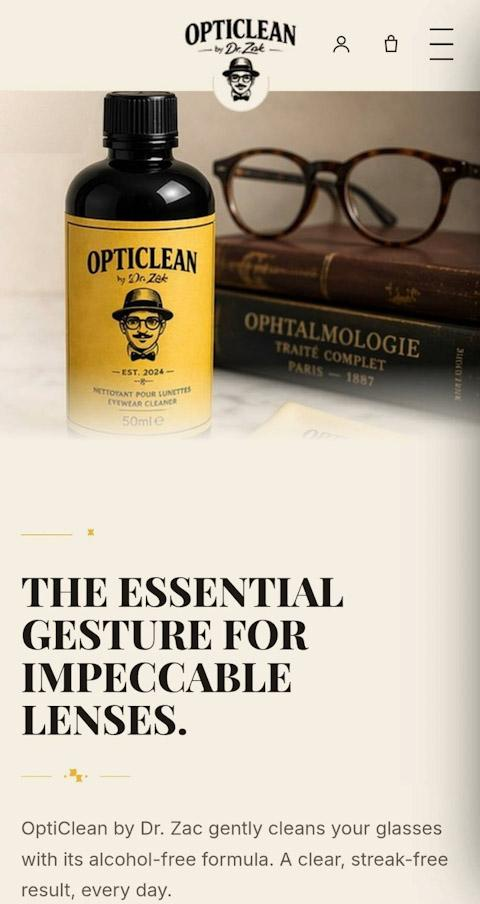
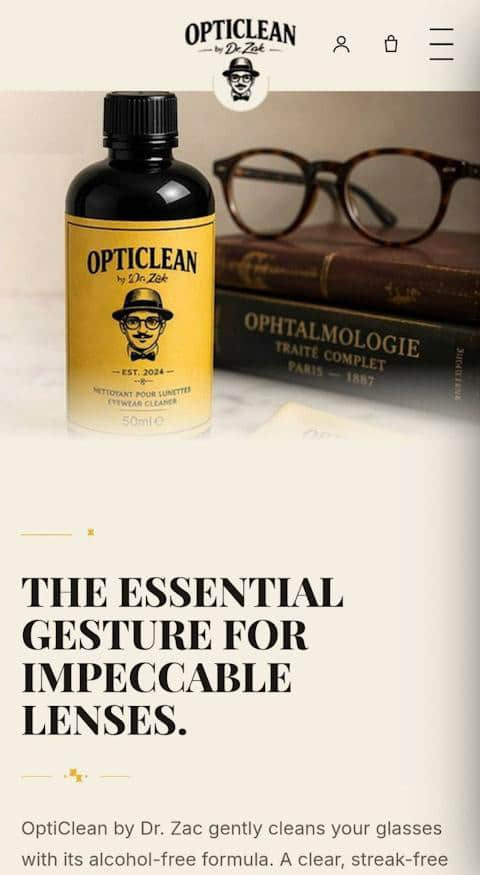
v6.2: picture/media for deterministic mobile files (DPR-proof), CLS space reservation, ship pending optimized image, restore zac.jpg

diff --git a/index.html b/index.html
@@ -688,6 +688,16 @@ html[lang="th"] .mm-links a{font-size:clamp(1.7rem,6.5vh,2.4rem);line-height:1.6
 .lang-sw a.on{background:var(--ink);color:#fff}
 .lang-sw a:not(.on):hover{color:var(--ink)}
 @media(max-width:820px){.lang-sw a{padding:.4rem .6rem;font-size:.66rem}}
+
+/* v6.2 — hero image space reservation (CLS) */
+.fl-mio .ph.has-img{aspect-ratio:735/920!important}
+.fl-oc .ph.has-img{aspect-ratio:1343/632!important}
+@media(max-width:768px){
+  .fl-mio .ph.has-img{aspect-ratio:480/808!important}
+  .fl-oc .ph.has-img{aspect-ratio:600/1132!important}
+}
+.fl .ph.has-img img,.fl .ph.has-img picture{width:100%;height:100%;display:block}
+.fl .ph.has-img img{object-fit:cover}
 </style>
 </head>
 <body>
@@ -720,12 +730,12 @@ html[lang="th"] .mm-links a{font-size:clamp(1.7rem,6.5vh,2.4rem);line-height:1.6
     <div class="collage" aria-hidden="true">
       <div class="fl fl-mio">
         <div class="ph has-img" id="heroMioSlot">
-          <img src="/assets/img/miomika-hero-desktop.jpg" srcset="/assets/img/miomika-hero-mobile.jpg 480w, /assets/img/miomika-hero-desktop.jpg 1000w" sizes="(max-width:768px) 85vw, 30vw" alt="Miomika — live app" loading="eager" fetchpriority="high" decoding="async">
+          <picture><source media="(max-width:768px)" srcset="/assets/img/miomika-hero-mobile.jpg"><img src="/assets/img/miomika-hero-desktop.jpg" alt="Miomika — live app" loading="eager" fetchpriority="high" decoding="async"></picture>
         </div>
         <div class="cap">Miomika — AI companion · live</div>
       </div>
       <div class="fl fl-oc">
-        <div class="ph has-img" id="heroOcSlot"><img src="/assets/img/opticlean-hero-desktop.jpg" srcset="/assets/img/opticlean-hero-desktop-mobile.jpg 600w, /assets/img/opticlean-hero-desktop.jpg 1343w" sizes="(max-width:768px) 85vw, 28vw" alt="OptiClean — live store" loading="eager" fetchpriority="high" decoding="async"></div>
+        <div class="ph has-img" id="heroOcSlot"><picture><source media="(max-width:768px)" srcset="/assets/img/opticlean-hero-desktop-mobile.jpg"><img src="/assets/img/opticlean-hero-desktop.jpg" alt="OptiClean — live store" loading="eager" fetchpriority="high" decoding="async"></picture></div>
         <div class="cap">OptiClean — live store</div>
       </div>
       <span class="fl fl-chat">สวัสดีค่ะ — say it with me</span>
@@ -762,7 +772,7 @@ html[lang="th"] .mm-links a{font-size:clamp(1.7rem,6.5vh,2.4rem);line-height:1.6
       <div class="vis mio-vis zoomin" id="mioVisWrap">
         <div class="bframe">
           <div class="bbar2"><i></i><i></i><i></i><span class="url">miomika.com</span></div>
-          <div class="shot imgslot has-img" id="mioMainSlot"><img src="/assets/img/miomika-case-desktop.jpg" srcset="/assets/img/miomika-case-desktop-mobile.jpg 480w, /assets/img/miomika-case-desktop.jpg 1000w" sizes="(max-width:768px) 90vw, 42vw" alt="Miomika app" loading="lazy" decoding="async"></div>
+          <div class="shot imgslot has-img" id="mioMainSlot"><picture><source media="(max-width:768px)" srcset="/assets/img/miomika-case-desktop-mobile.jpg"><img src="/assets/img/miomika-case-desktop.jpg" alt="Miomika app" loading="lazy" decoding="async"></picture></div>
         </div>
         <span class="bub b1" id="mb1">Say “hello” in Thai?</span>
         <span class="bub b2" id="mb2">สวัสดีค่ะ — your turn!</span>
@@ -774,7 +784,7 @@ html[lang="th"] .mm-links a{font-size:clamp(1.7rem,6.5vh,2.4rem);line-height:1.6
       <div class="vis zoomin">
         <div class="bframe">
           <div class="bbar2"><i></i><i></i><i></i><span class="url">opticlean.mikaro.studio</span></div>
-          <div class="shot imgslot has-img" id="ocMainSlot"><img src="/assets/img/opticlean-case-desktop.jpg" srcset="/assets/img/opticlean-case-desktop-mobile.jpg 600w, /assets/img/opticlean-case-desktop.jpg 1343w" sizes="(max-width:768px) 90vw, 42vw" alt="OptiClean storefront" loading="lazy" decoding="async"></div>
+          <div class="shot imgslot has-img" id="ocMainSlot"><picture><source media="(max-width:768px)" srcset="/assets/img/opticlean-case-desktop-mobile.jpg"><img src="/assets/img/opticlean-case-desktop.jpg" alt="OptiClean storefront" loading="lazy" decoding="async"></picture></div>
         </div>
         <span class="seal">TEST CARD<br>4242 4242</span>
       </div>

diff --git a/th/index.html b/th/index.html
@@ -688,6 +688,16 @@ html[lang="th"] .mm-links a{font-size:clamp(1.7rem,6.5vh,2.4rem);line-height:1.6
 .lang-sw a.on{background:var(--ink);color:#fff}
 .lang-sw a:not(.on):hover{color:var(--ink)}
 @media(max-width:820px){.lang-sw a{padding:.4rem .6rem;font-size:.66rem}}
+
+/* v6.2 — hero image space reservation (CLS) */
+.fl-mio .ph.has-img{aspect-ratio:735/920!important}
+.fl-oc .ph.has-img{aspect-ratio:1343/632!important}
+@media(max-width:768px){
+  .fl-mio .ph.has-img{aspect-ratio:480/808!important}
+  .fl-oc .ph.has-img{aspect-ratio:600/1132!important}
+}
+.fl .ph.has-img img,.fl .ph.has-img picture{width:100%;height:100%;display:block}
+.fl .ph.has-img img{object-fit:cover}
 </style>
 </head>
 <body>
@@ -720,12 +730,12 @@ html[lang="th"] .mm-links a{font-size:clamp(1.7rem,6.5vh,2.4rem);line-height:1.6
     <div class="collage" aria-hidden="true">
       <div class="fl fl-mio">
         <div class="ph has-img" id="heroMioSlot">
-          <img src="/assets/img/miomika-hero-desktop.jpg" srcset="/assets/img/miomika-hero-mobile.jpg 480w, /assets/img/miomika-hero-desktop.jpg 1000w" sizes="(max-width:768px) 85vw, 30vw" alt="Miomika — live app" loading="eager" fetchpriority="high" decoding="async">
+          <picture><source media="(max-width:768px)" srcset="/assets/img/miomika-hero-mobile.jpg"><img src="/assets/img/miomika-hero-desktop.jpg" alt="Miomika — live app" loading="eager" fetchpriority="high" decoding="async"></picture>
         </div>
         <div class="cap">Miomika — เพื่อน AI · ออนไลน์</div>
       </div>
       <div class="fl fl-oc">
-        <div class="ph has-img" id="heroOcSlot"><img src="/assets/img/opticlean-hero-desktop.jpg" srcset="/assets/img/opticlean-hero-desktop-mobile.jpg 600w, /assets/img/opticlean-hero-desktop.jpg 1343w" sizes="(max-width:768px) 85vw, 28vw" alt="OptiClean — live store" loading="eager" fetchpriority="high" decoding="async"></div>
+        <div class="ph has-img" id="heroOcSlot"><picture><source media="(max-width:768px)" srcset="/assets/img/opticlean-hero-desktop-mobile.jpg"><img src="/assets/img/opticlean-hero-desktop.jpg" alt="OptiClean — live store" loading="eager" fetchpriority="high" decoding="async"></picture></div>
         <div class="cap">OptiClean — ร้านค้าออนไลน์จริง</div>
       </div>
       <span class="fl fl-chat">สวัสดีค่ะ — พูดตามกันเลย</span>
@@ -762,7 +772,7 @@ html[lang="th"] .mm-links a{font-size:clamp(1.7rem,6.5vh,2.4rem);line-height:1.6
       <div class="vis mio-vis zoomin" id="mioVisWrap">
         <div class="bframe">
           <div class="bbar2"><i></i><i></i><i></i><span class="url">miomika.com</span></div>
-          <div class="shot imgslot has-img" id="mioMainSlot"><img src="/assets/img/miomika-case-desktop.jpg" srcset="/assets/img/miomika-case-desktop-mobile.jpg 480w, /assets/img/miomika-case-desktop.jpg 1000w" sizes="(max-width:768px) 90vw, 42vw" alt="Miomika app" loading="lazy" decoding="async"></div>
+          <div class="shot imgslot has-img" id="mioMainSlot"><picture><source media="(max-width:768px)" srcset="/assets/img/miomika-case-desktop-mobile.jpg"><img src="/assets/img/miomika-case-desktop.jpg" alt="Miomika app" loading="lazy" decoding="async"></picture></div>
         </div>
         <span class="bub b1" id="mb1">ลองพูด “สวัสดี” ไหม?</span>
         <span class="bub b2" id="mb2">สวัสดีค่ะ — ตาคุณแล้ว!</span>
@@ -774,7 +784,7 @@ html[lang="th"] .mm-links a{font-size:clamp(1.7rem,6.5vh,2.4rem);line-height:1.6
       <div class="vis zoomin">
         <div class="bframe">
           <div class="bbar2"><i></i><i></i><i></i><span class="url">opticlean.mikaro.studio</span></div>
-          <div class="shot imgslot has-img" id="ocMainSlot"><img src="/assets/img/opticlean-case-desktop.jpg" srcset="/assets/img/opticlean-case-desktop-mobile.jpg 600w, /assets/img/opticlean-case-desktop.jpg 1343w" sizes="(max-width:768px) 90vw, 42vw" alt="OptiClean storefront" loading="lazy" decoding="async"></div>
+          <div class="shot imgslot has-img" id="ocMainSlot"><picture><source media="(max-width:768px)" srcset="/assets/img/opticlean-case-desktop-mobile.jpg"><img src="/assets/img/opticlean-case-desktop.jpg" alt="OptiClean storefront" loading="lazy" decoding="async"></picture></div>
         </div>
         <span class="seal">TEST CARD<br>4242 4242</span>
       </div>

diff --git a/css/main.css b/css/main.css
@@ -658,3 +658,13 @@ html[lang="th"] .mm-links a{font-size:clamp(1.7rem,6.5vh,2.4rem);line-height:1.6
 .lang-sw a.on{background:var(--ink);color:#fff}
 .lang-sw a:not(.on):hover{color:var(--ink)}
 @media(max-width:820px){.lang-sw a{padding:.4rem .6rem;font-size:.66rem}}
+
+/* v6.2 — hero image space reservation (CLS) */
+.fl-mio .ph.has-img{aspect-ratio:735/920!important}
+.fl-oc .ph.has-img{aspect-ratio:1343/632!important}
+@media(max-width:768px){
+  .fl-mio .ph.has-img{aspect-ratio:480/808!important}
+  .fl-oc .ph.has-img{aspect-ratio:600/1132!important}
+}
+.fl .ph.has-img img,.fl .ph.has-img picture{width:100%;height:100%;display:block}
+.fl .ph.has-img img{object-fit:cover}

diff --git a/th/work.html b/th/work.html
@@ -67,7 +67,7 @@
       <div class="vis mio-vis zoomin" id="mioVisWrap">
         <div class="bframe">
           <div class="bbar2"><i></i><i></i><i></i><span class="url">miomika.com</span></div>
-          <div class="shot imgslot has-img" id="mioMainSlot"><img src="/assets/img/miomika-case-desktop.jpg" srcset="/assets/img/miomika-case-desktop-mobile.jpg 480w, /assets/img/miomika-case-desktop.jpg 1000w" sizes="(max-width:768px) 90vw, 42vw" alt="Miomika app" loading="lazy" decoding="async"></div>
+          <div class="shot imgslot has-img" id="mioMainSlot"><picture><source media="(max-width:768px)" srcset="/assets/img/miomika-case-desktop-mobile.jpg"><img src="/assets/img/miomika-case-desktop.jpg" alt="Miomika app" loading="lazy" decoding="async"></picture></div>
         </div>
         <span class="bub b1" id="mb1">ลองพูด “สวัสดี” ไหม?</span>
         <span class="bub b2" id="mb2">สวัสดีค่ะ — ตาคุณแล้ว!</span>
@@ -79,7 +79,7 @@
       <div class="vis zoomin">
         <div class="bframe">
           <div class="bbar2"><i></i><i></i><i></i><span class="url">opticlean.mikaro.studio</span></div>
-          <div class="shot imgslot has-img" id="ocMainSlot"><img src="/assets/img/opticlean-case-desktop.jpg" srcset="/assets/img/opticlean-case-desktop-mobile.jpg 600w, /assets/img/opticlean-case-desktop.jpg 1343w" sizes="(max-width:768px) 90vw, 42vw" alt="OptiClean storefront" loading="lazy" decoding="async"></div>
+          <div class="shot imgslot has-img" id="ocMainSlot"><picture><source media="(max-width:768px)" srcset="/assets/img/opticlean-case-desktop-mobile.jpg"><img src="/assets/img/opticlean-case-desktop.jpg" alt="OptiClean storefront" loading="lazy" decoding="async"></picture></div>
         </div>
         <span class="seal">TEST CARD<br>4242 4242</span>
       </div>

diff --git a/work.html b/work.html
@@ -67,7 +67,7 @@
       <div class="vis mio-vis zoomin" id="mioVisWrap">
         <div class="bframe">
           <div class="bbar2"><i></i><i></i><i></i><span class="url">miomika.com</span></div>
-          <div class="shot imgslot has-img" id="mioMainSlot"><img src="/assets/img/miomika-case-desktop.jpg" srcset="/assets/img/miomika-case-desktop-mobile.jpg 480w, /assets/img/miomika-case-desktop.jpg 1000w" sizes="(max-width:768px) 90vw, 42vw" alt="Miomika app" loading="lazy" decoding="async"></div>
+          <div class="shot imgslot has-img" id="mioMainSlot"><picture><source media="(max-width:768px)" srcset="/assets/img/miomika-case-desktop-mobile.jpg"><img src="/assets/img/miomika-case-desktop.jpg" alt="Miomika app" loading="lazy" decoding="async"></picture></div>
         </div>
         <span class="bub b1" id="mb1">Say “hello” in Thai?</span>
         <span class="bub b2" id="mb2">สวัสดีค่ะ — your turn!</span>
@@ -79,7 +79,7 @@
       <div class="vis zoomin">
         <div class="bframe">
           <div class="bbar2"><i></i><i></i><i></i><span class="url">opticlean.mikaro.studio</span></div>
-          <div class="shot imgslot has-img" id="ocMainSlot"><img src="/assets/img/opticlean-case-desktop.jpg" srcset="/assets/img/opticlean-case-desktop-mobile.jpg 600w, /assets/img/opticlean-case-desktop.jpg 1343w" sizes="(max-width:768px) 90vw, 42vw" alt="OptiClean storefront" loading="lazy" decoding="async"></div>
+          <div class="shot imgslot has-img" id="ocMainSlot"><picture><source media="(max-width:768px)" srcset="/assets/img/opticlean-case-desktop-mobile.jpg"><img src="/assets/img/opticlean-case-desktop.jpg" alt="OptiClean storefront" loading="lazy" decoding="async"></picture></div>
         </div>
         <span class="seal">TEST CARD<br>4242 4242</span>
       </div>